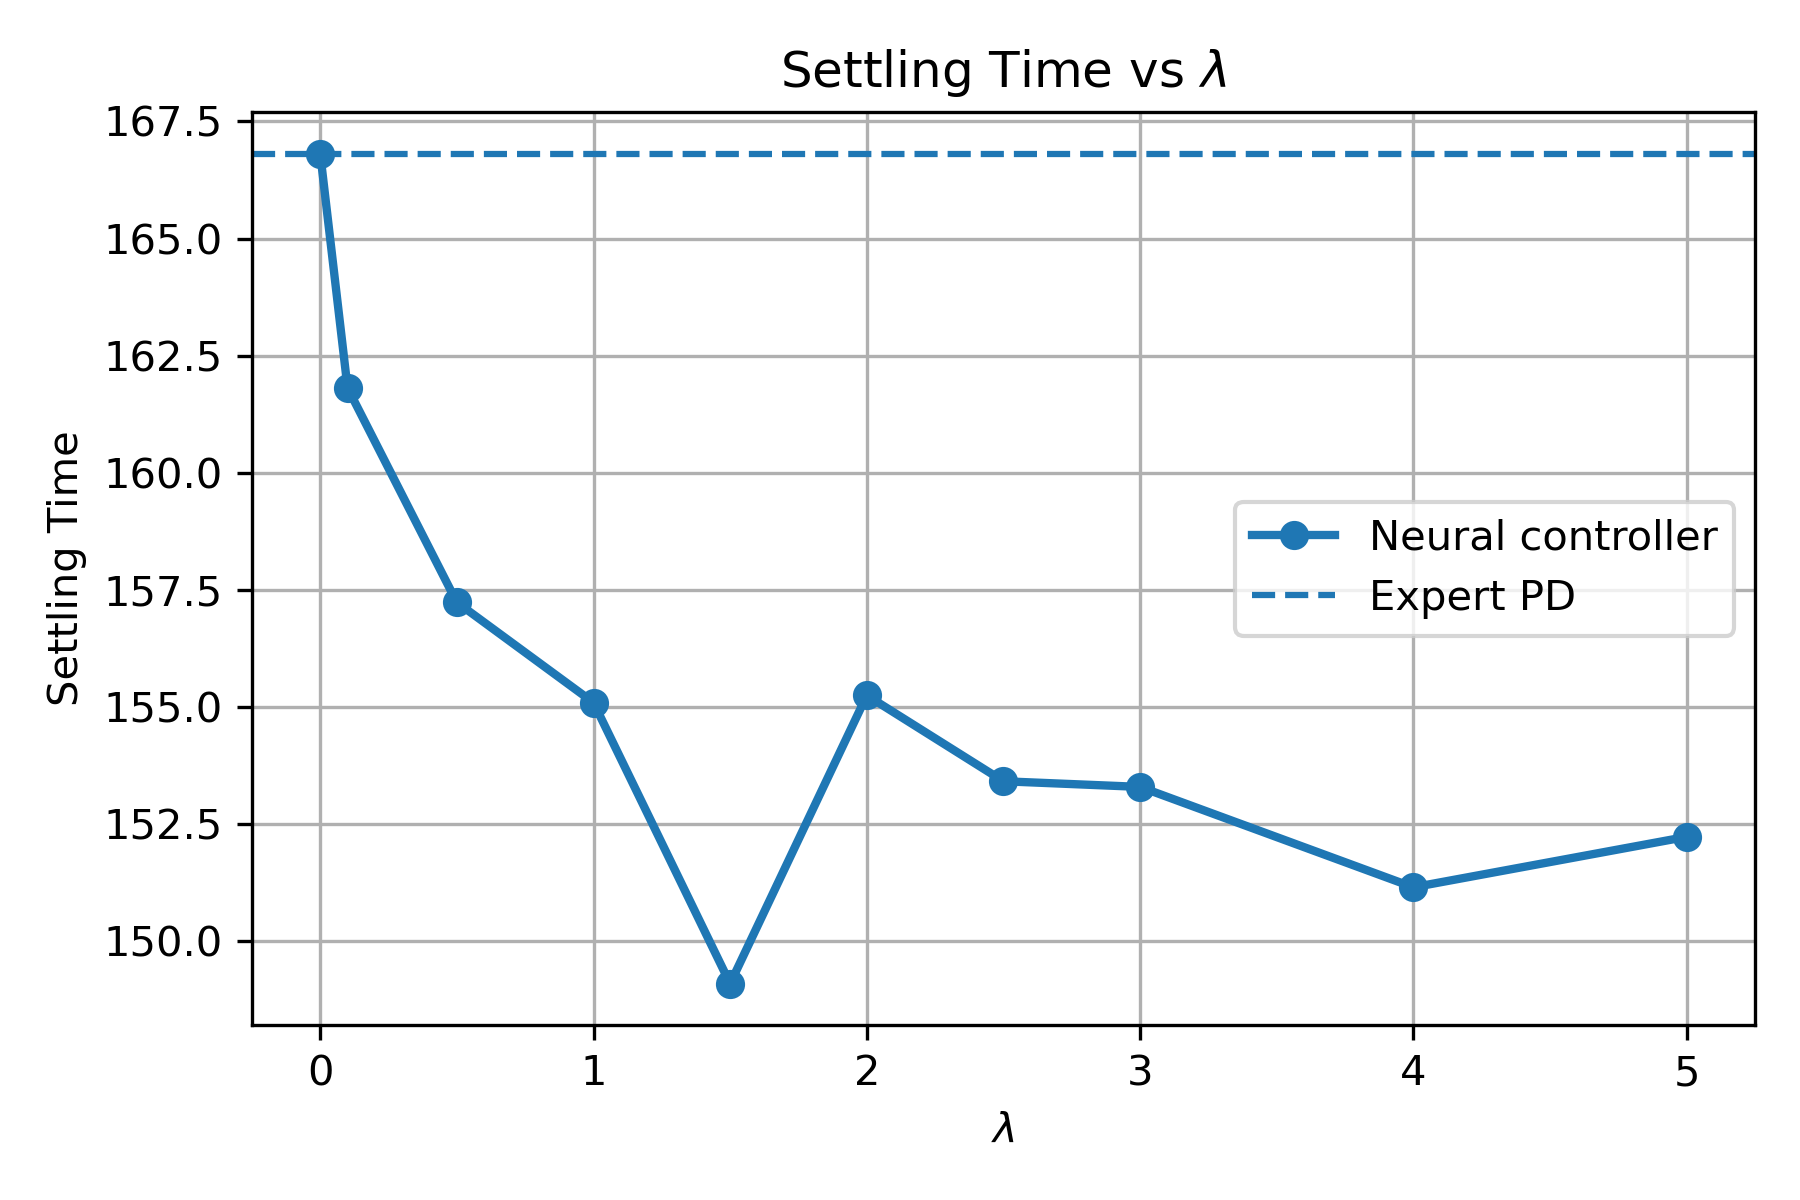
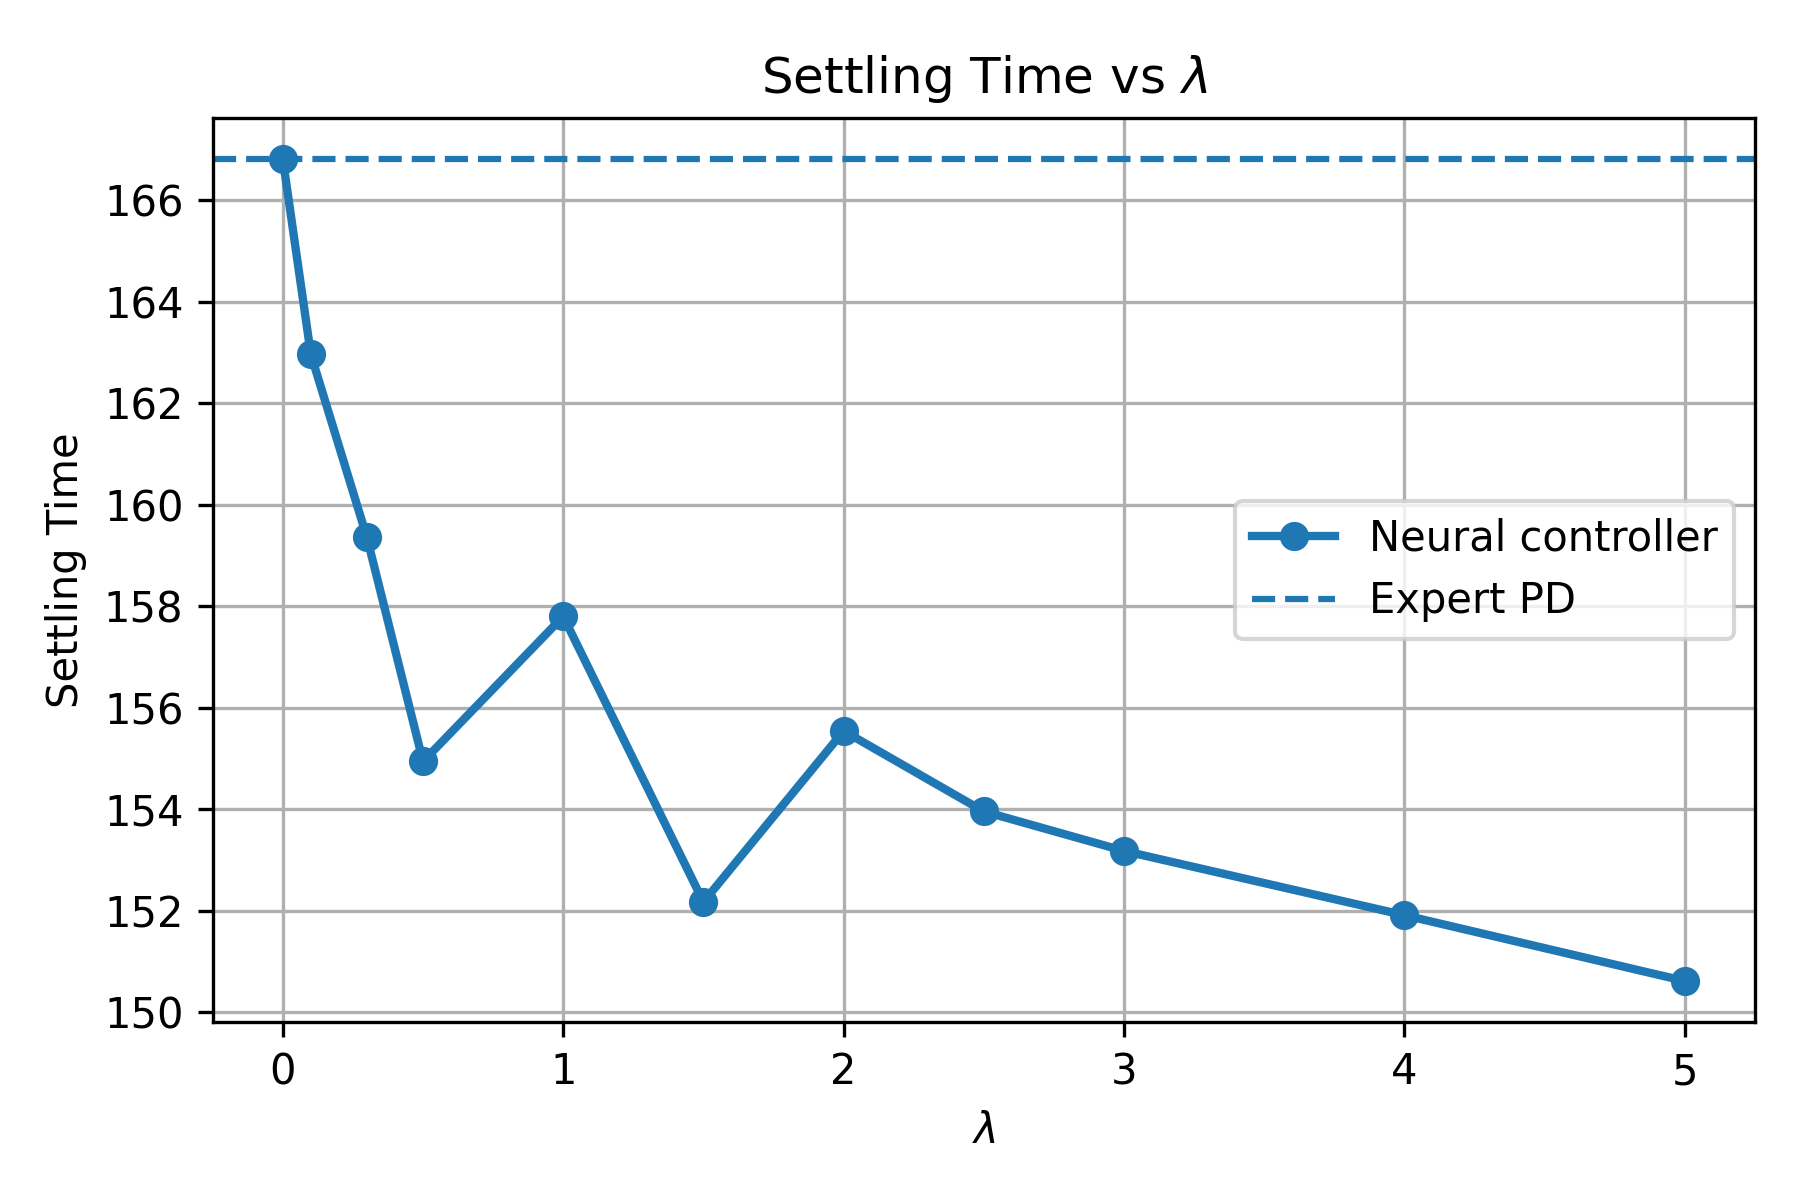
new oscillator results

diff --git a/oscillator/results/results_analysis.py b/oscillator/results/results_analysis.py
@@ -1,10 +1,11 @@
 import re
 import pandas as pd
 import matplotlib.pyplot as plt
+import sys
 
-csv_file= 'eval_results_2026_07_03_12_01_.csv'
-
-df = pd.read_csv(f"oscillator/results/{csv_file}")
+csv_file = sys.argv[1]
+#csv_file = "oscillator/results/eval_results_2026_07_03_12_01_.csv"
+df = pd.read_csv(csv_file)
 
 for col in ["mse", "settling_time", "control_cost", "success"]:
     df[col] = (

diff --git a/oscillator/model_eval.py b/oscillator/model_eval.py
@@ -158,3 +158,5 @@ for model_path in glob.glob(os.path.join(model_dir, "*.pt")):
 df = pd.DataFrame(all_results)
 output_path = f"oscillator/results/eval_results_{timestamp}.csv"
 df.to_csv(output_path, index=False)
+
+print(output_path)